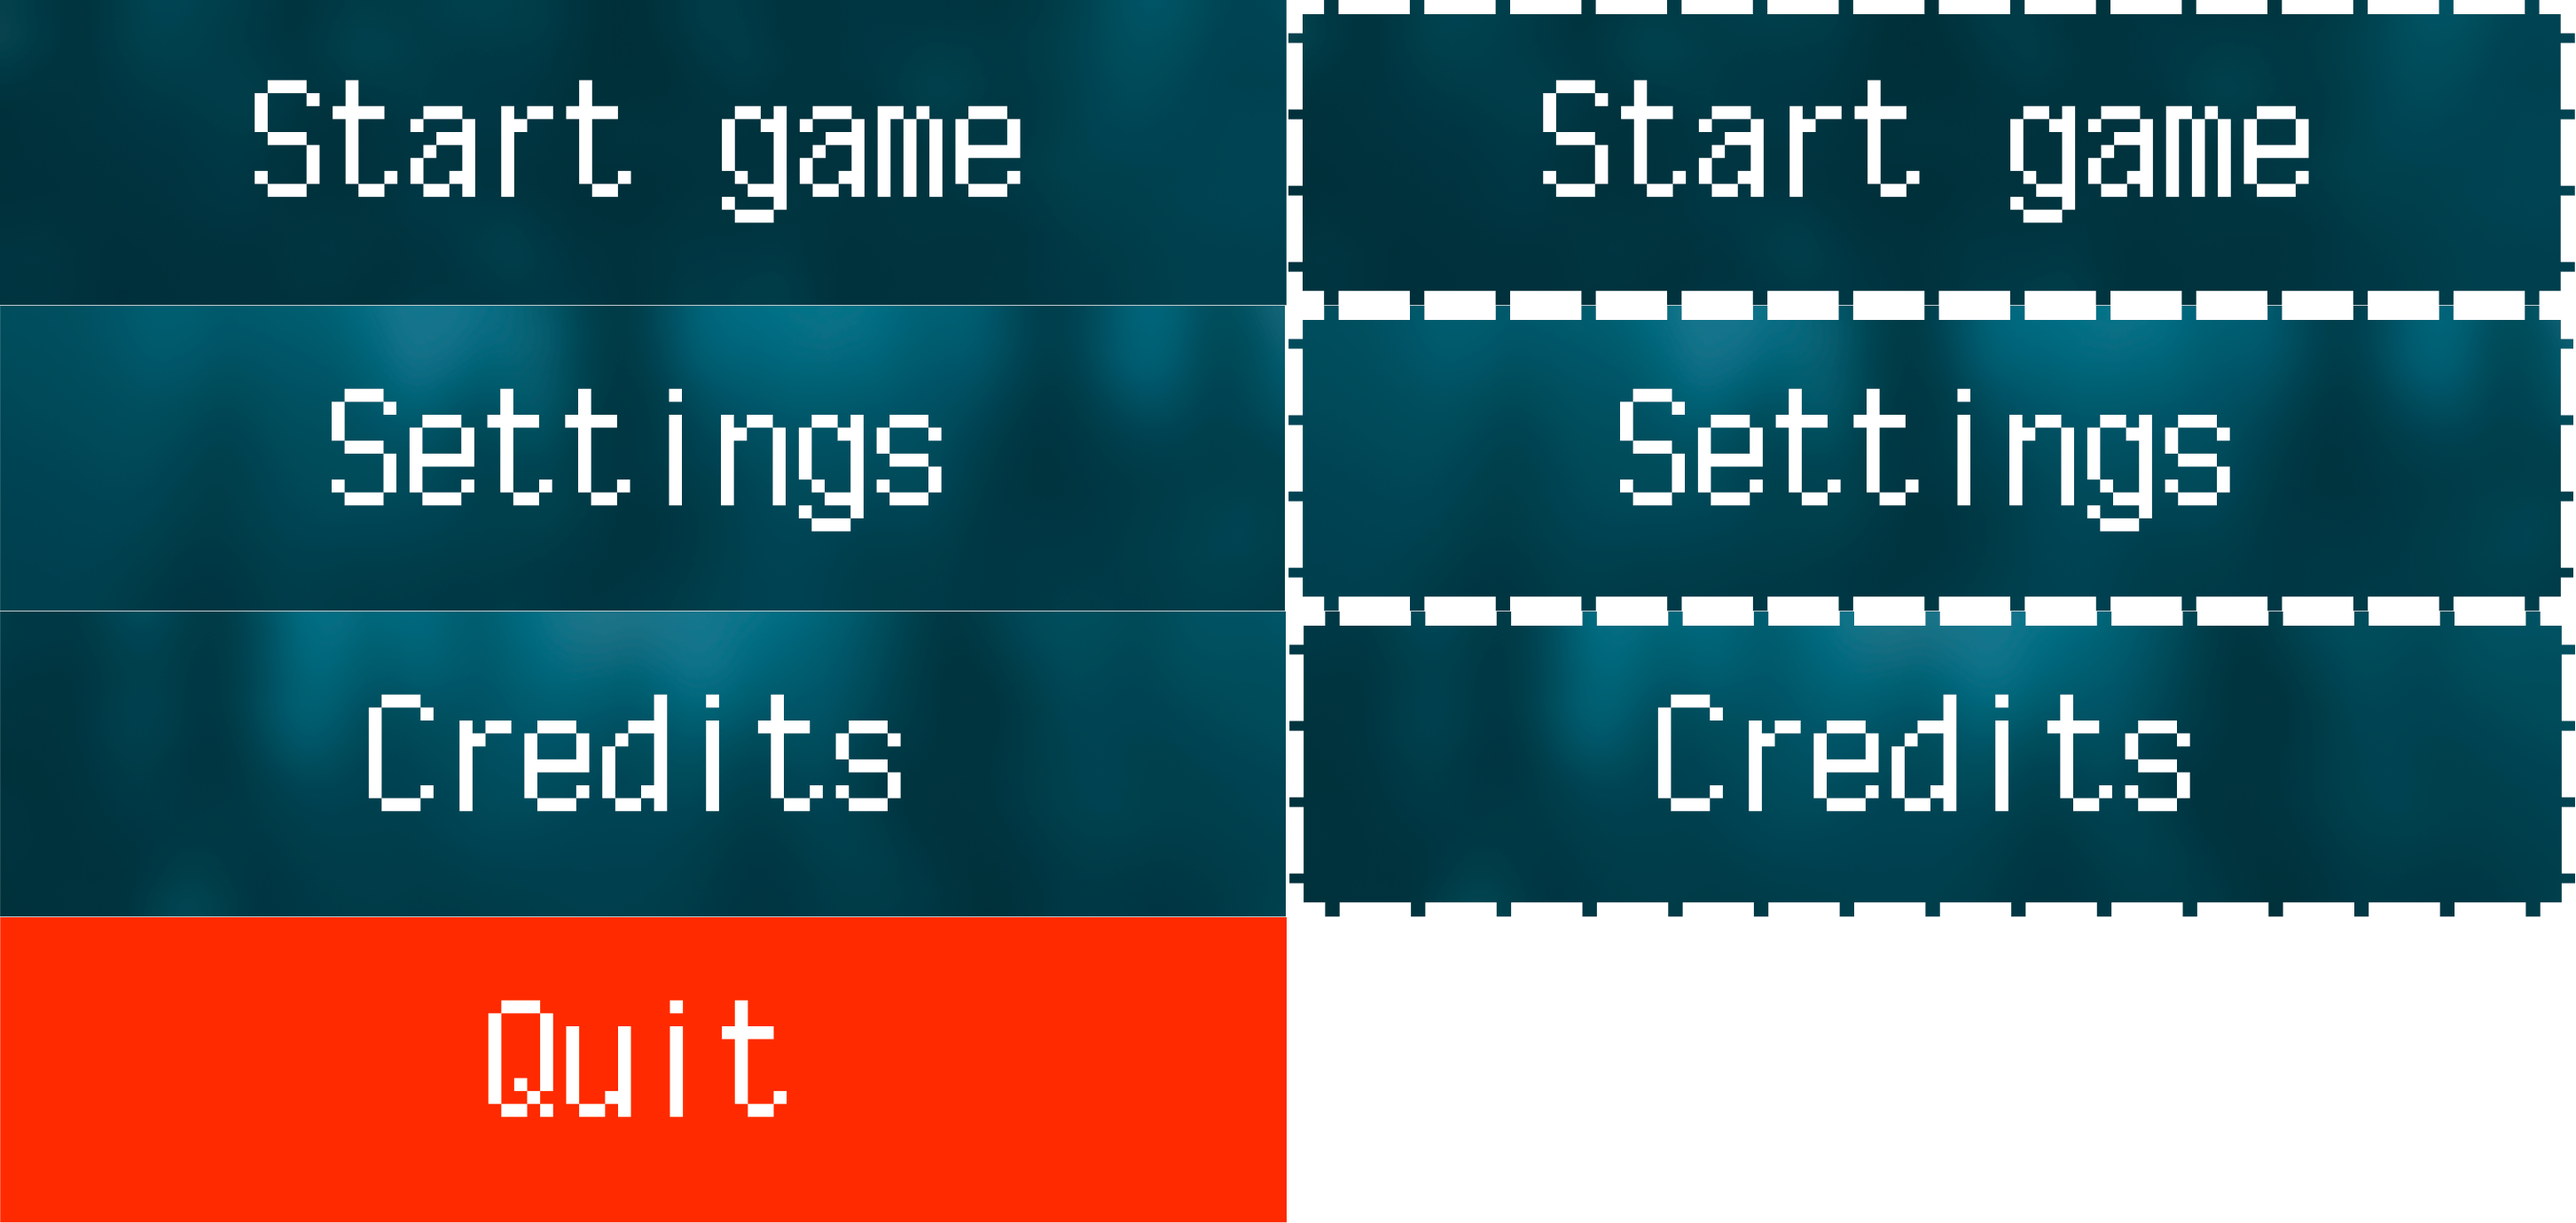
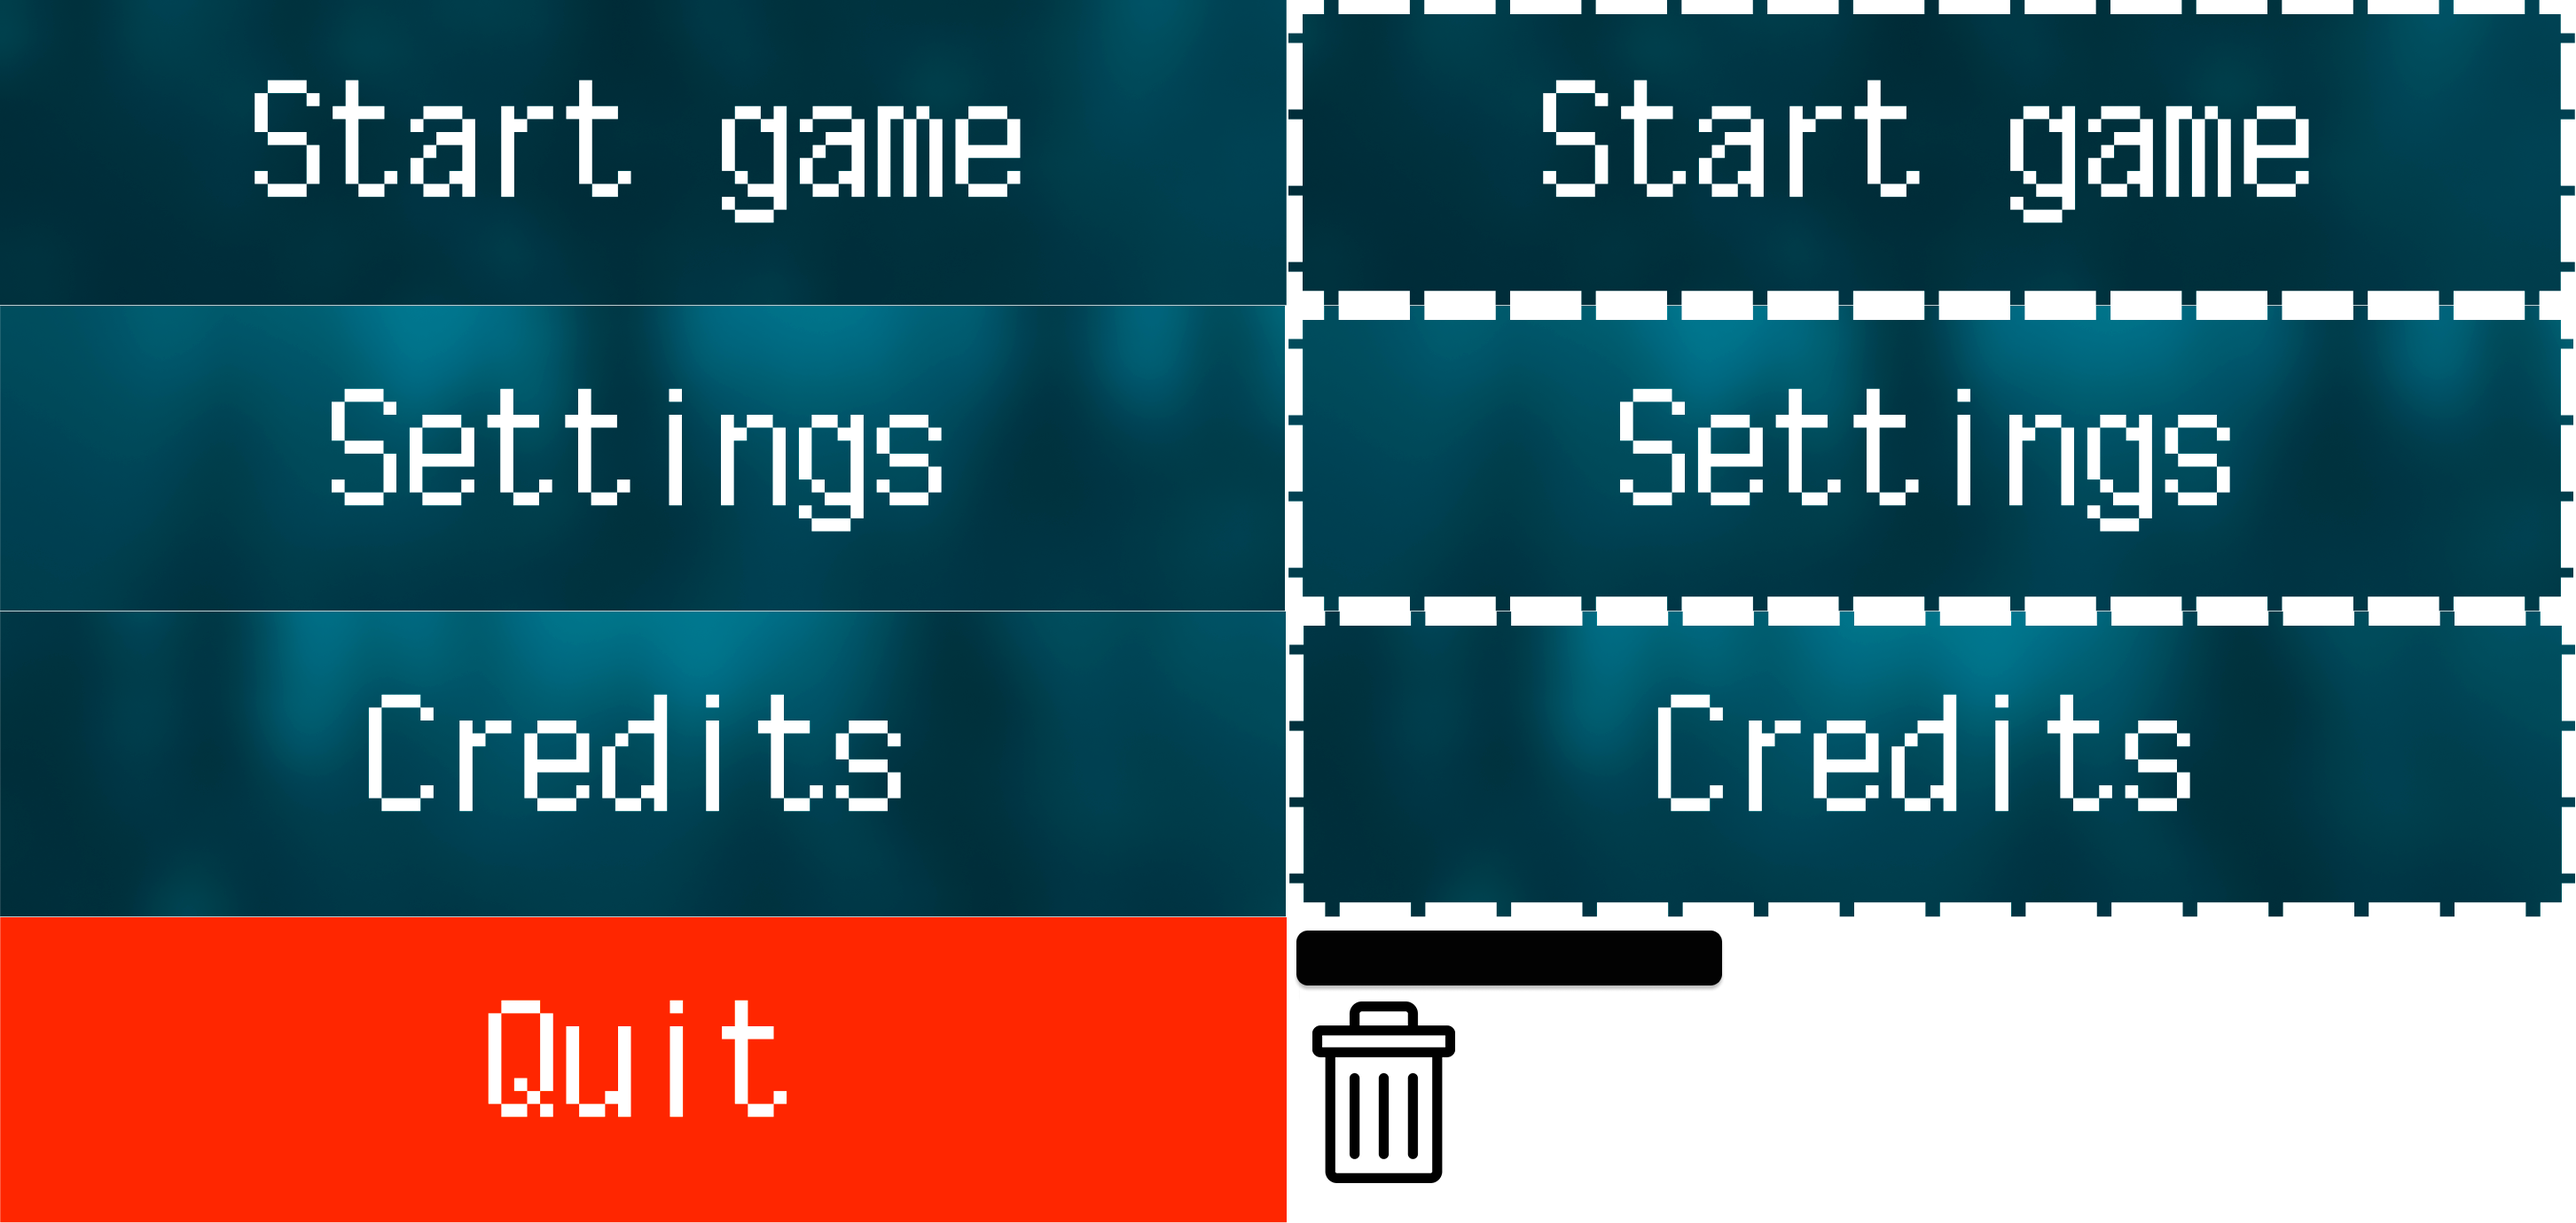
Changes: 1. Added save files UI (it's not working) 2. Added settings save (it's working)

Changed region(s): [[0.4957, 0.7478, 0.6816, 0.9659], [0.2169, 0.4986, 0.2788, 0.5297], [0.7126, 0.4986, 0.7435, 0.5297]]

diff --git a/main.py b/main.py
@@ -1,8 +1,10 @@
 import os.path
 import random
+import sqlite3
 import sys
 import time
 
+import pandas as pd
 import pygame as pg
 
 pg.display.set_mode((0, 0))
@@ -42,21 +44,22 @@ class Game:
     SETTINGS_BUTTON = sheet.get_frames(1, 1451, 345, 2, colorkey=(0, 0, 0))
     CREDITS_BUTTON = sheet.get_frames(2, 1451, 345, 2, colorkey=(0, 0, 0))
     QUIT_BUTTON = sheet.cut_image((0, 1035), 1451, 345, colorkey=(0, 0, 0))
+    SAVE_BUTTON = pg.image.load('data/images/UI/save_btn.png')
+    TRASH = pg.image.load('data/images/UI/trash-can.png')
 
     BUTTON = load_with_colorkey('data/images/UI/button.png')
     HINT_BUTTON = load_with_colorkey('data/images/UI/hint_btn.png')
-    STORE_BUTTON = load_with_colorkey('data/images/UI/store_btn.png')
     LEFT_ARROW = pg.image.load('data/images/UI/left_arrow.png')
     RIGHT_ARROW = pg.image.load('data/images/UI/right_arrow.png')
 
     HEART_IMG = pg.transform.scale(pg.image.load('data/images/UI/heart.png'), (48, 48))
 
     HERO_SPRITESHEET = SpriteSheet(pg.image.load('data/images/creatures/hero.png'))
-    HERO_IDLE = HERO_SPRITESHEET.get_frames(0, 16, 16, 18, new_size=(64, 64),
+    HERO_IDLE = HERO_SPRITESHEET.get_frames(0, 16, 16, 18, new_size=(54, 54),
                                             colorkey=(0, 0, 0))
-    HERO_MOVE = HERO_SPRITESHEET.get_frames(1, 16, 16, 2, new_size=(64, 64),
+    HERO_MOVE = HERO_SPRITESHEET.get_frames(1, 16, 16, 2, new_size=(54, 54),
                                             colorkey=(0, 0, 0))
-    HERO_HIT = HERO_SPRITESHEET.get_frames(2, 16, 16, 8, new_size=(64, 64),
+    HERO_HIT = HERO_SPRITESHEET.get_frames(2, 16, 16, 8, new_size=(54, 54),
                                            colorkey=(0, 0, 0))
 
     sheet = SpriteSheet(pg.image.load('data/images/objects/obstacles.png'))
@@ -89,15 +92,18 @@ class Game:
         MAPS_DICT[number] = (pg.image.load(f'data/maps/map_previews/{image}'), image)
 
     def __init__(self) -> None:
+        settings = pd.read_csv('data/saves/settings.csv', delimiter=';')
+        settings = settings['value']
+
         self._to_quit = False
         self._main_run = False
 
-        self._interface_volume = 1.0
+        self._interface_volume = settings[0]
 
-        self._effects_volume = 1.0
+        self._effects_volume = settings[1]
 
         self._music_sounds = SoundsList()
-        self._music_volume = 1.0
+        self._music_volume = settings[2]
 
         self._all_sprites = pg.sprite.Group()
         self._obstacles = pg.sprite.Group()
@@ -128,7 +134,26 @@ class Game:
     def main(self) -> None:
         self.main_menu()
 
+    def create_save_button(self, save_number: int, pos: tuple[int, int], file_window_rect: pg.Rect,
+                           font: pg.font.Font, group: ButtonGroup,
+                           sql_cursor: sqlite3.Cursor) -> tuple[pg.Surface, pg.Rect, pg.Surface, pg.Rect]:
+        file_1_button = DefaultButton(pos, file_window_rect.w * 0.7, file_window_rect.h * 0.16, self.SAVE_BUTTON,
+                                      sound='click.wav', group=group)
+        file_1_button_rect = file_1_button._rect
+        file_1_count = sql_cursor.execute(f'''SELECT money FROM hero_stats
+         WHERE save_id == "{save_number}"''').fetchone()[0]
+        count_surf = font.render(f'money: {file_1_count}', True, (255, 255, 255))
+        count_rect = count_surf.get_rect(topleft=(file_1_button_rect.centerx + (file_1_button_rect.w >> 2),
+                                                  file_1_button_rect.bottom - 50))
+        file_name_surf = font.render(f'File {save_number}', True, (255, 255, 255))
+        file_name_rect = file_name_surf.get_rect(topleft=(file_1_button_rect.left + 20, file_1_button_rect.top + 20))
+
+        return count_surf, count_rect, file_name_surf, file_name_rect
+
     def main_menu(self) -> None:
+        con = sqlite3.connect('data/saves/saves.sqlite')
+        cur = con.cursor()
+
         screen = pg.display.set_mode((0, 0), pg.FULLSCREEN)
 
         buttons_group = ButtonGroup()
@@ -176,16 +201,39 @@ class Game:
         credits_surf.fill('black')
         credits_surf.set_alpha(128)
 
+        file_surf = pg.Surface((self.MONITOR_W * 0.4, self.MONITOR_H * 0.6))
+        file_rect = file_surf.get_rect(center=(self.MONITOR_W >> 1, self.MONITOR_H >> 1))
+        file_surf.fill((0, 0, 0))
+        file_surf.set_alpha(128)
+        files_font = pg.font.Font(None, round(self._font_size * 0.5))
+        file_buttons = ButtonGroup()
+
+        back_btn = DefaultButton((file_rect.left + file_rect.w * 0.05, file_rect.top + file_rect.h * 0.05),
+                                 file_rect.w * 0.1, file_rect.h * 0.1, self.SAVE_BUTTON, sound='click.wav',
+                                 text='<-', text_size=self._font_size, group=file_buttons)
+        count_surf_1, count_rect_1, file_name_1, file_name_1_rect = self.create_save_button(1, (
+            file_rect.centerx, file_rect.top + file_rect.h * 0.23), file_rect, files_font, file_buttons, cur)
+        delete_1 = DefaultButton((file_rect.right - file_rect.w * 0.1, file_rect.top + file_rect.h * 0.21),
+                                 50, 50, self.TRASH, sound='click.wav', group=file_buttons)
+        count_surf_2, count_rect_2, file_name_2, file_name_2_rect = self.create_save_button(2, (
+            file_rect.centerx, file_rect.top + file_rect.h * 0.53), file_rect, files_font, file_buttons, cur)
+        delete_2 = DefaultButton((file_rect.right - file_rect.w * 0.1, file_rect.top + file_rect.h * 0.51),
+                                 50, 50, self.TRASH, sound='click.wav', group=file_buttons)
+        count_surf_3, count_rect_3, file_name_3, file_name_3_rect = self.create_save_button(3, (
+            file_rect.centerx, file_rect.top + file_rect.h * 0.83), file_rect, files_font, file_buttons, cur)
+        delete_1 = DefaultButton((file_rect.right - file_rect.w * 0.1, file_rect.top + file_rect.h * 0.81),
+                                 50, 50, self.TRASH, sound='click.wav', group=file_buttons)
+
         clock = pg.time.Clock()
         show_credits = False
+        show_file_select = False
         run = True
         while run:
             clock.tick(self.FPS)
 
             for event in pg.event.get():
-                if event.type == pg.USEREVENT and event.button == start_button:
-                    run = False
-                    self.select_level()
+                if event.type == pg.USEREVENT and (event.button == start_button or event.button == back_btn):
+                    show_file_select = not show_file_select
                 elif (event.type == pg.USEREVENT and event.button == quit_button) or event.type == pg.QUIT:
                     run = False
                     pg.time.delay(500)
@@ -195,8 +243,12 @@ class Game:
                     self.settings_menu()
                 elif event.type == pg.USEREVENT and event.button == credits_button:
                     show_credits = not show_credits
-                buttons_group.handle(event)
 
+                buttons_group.handle(event)
+                if show_file_select:
+                    file_buttons.handle(event)
+
+            file_buttons.check_hover(pg.mouse.get_pos())
             buttons_group.check_hover(pg.mouse.get_pos())
 
             screen.blit(self.MENU_BG, (0, 0))
@@ -210,6 +262,16 @@ class Game:
                             (credits_rect.centerx - (authors_text_surf.get_width() >> 1), credits_rect.top + 50))
                 screen.blit(name_text_surf, name1_rect)
                 screen.blit(name2_text_surf, name2_rect)
+
+            if show_file_select:
+                screen.blit(file_surf, file_rect)
+                file_buttons.draw(screen)
+                screen.blit(count_surf_1, count_rect_1)
+                screen.blit(file_name_1, file_name_1_rect)
+                screen.blit(count_surf_2, count_rect_2)
+                screen.blit(file_name_2, file_name_2_rect)
+                screen.blit(count_surf_3, count_rect_3)
+                screen.blit(file_name_3, file_name_3_rect)
 
             buttons_group.draw(screen)
 
@@ -803,8 +865,13 @@ class Game:
         self._main_screen.blit(lower_text, lower_text_rect)
         return alpha
 
-    @staticmethod
-    def terminate() -> None:
+    def terminate(self) -> None:
+        settings = pd.read_csv('data/saves/settings.csv', delimiter=';')
+        settings.at[0, 'value'] = self._interface_volume
+        settings.at[1, 'value'] = self._effects_volume
+        settings.at[2, 'value'] = self._music_volume
+        settings.to_csv('data/saves/settings.csv', index=False, sep=';')
+
         pg.quit()
         sys.exit(1)
 
